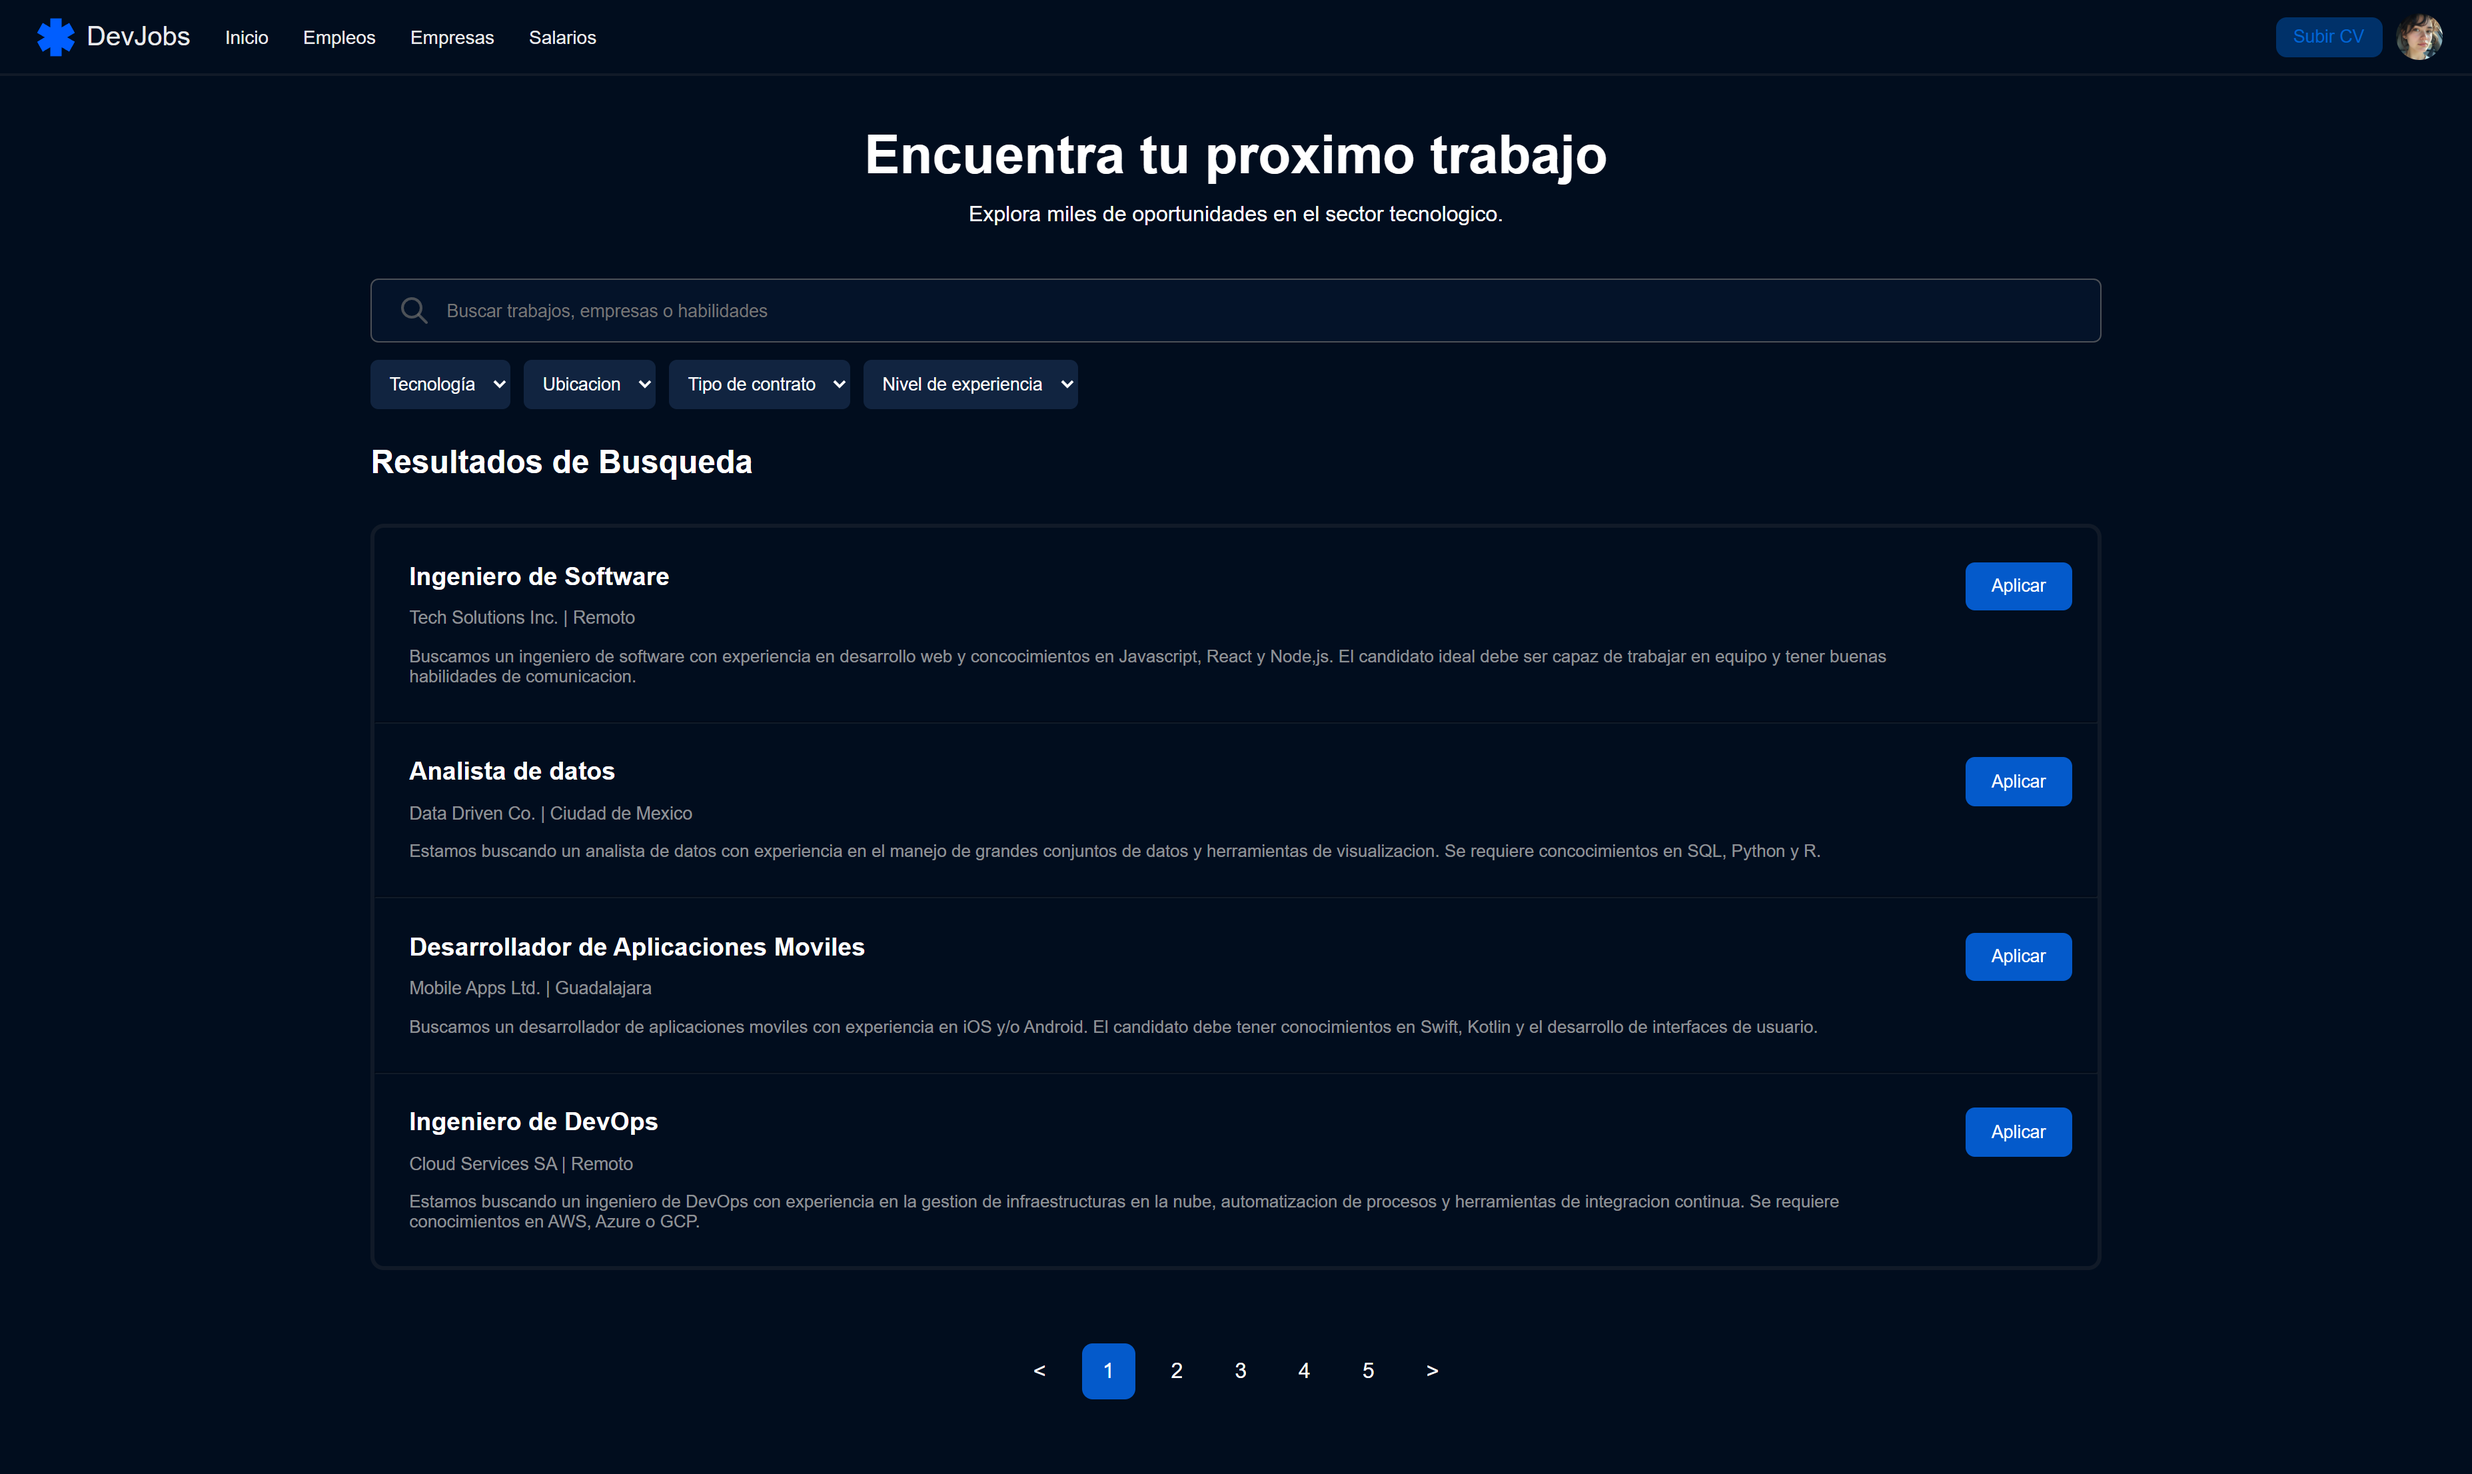
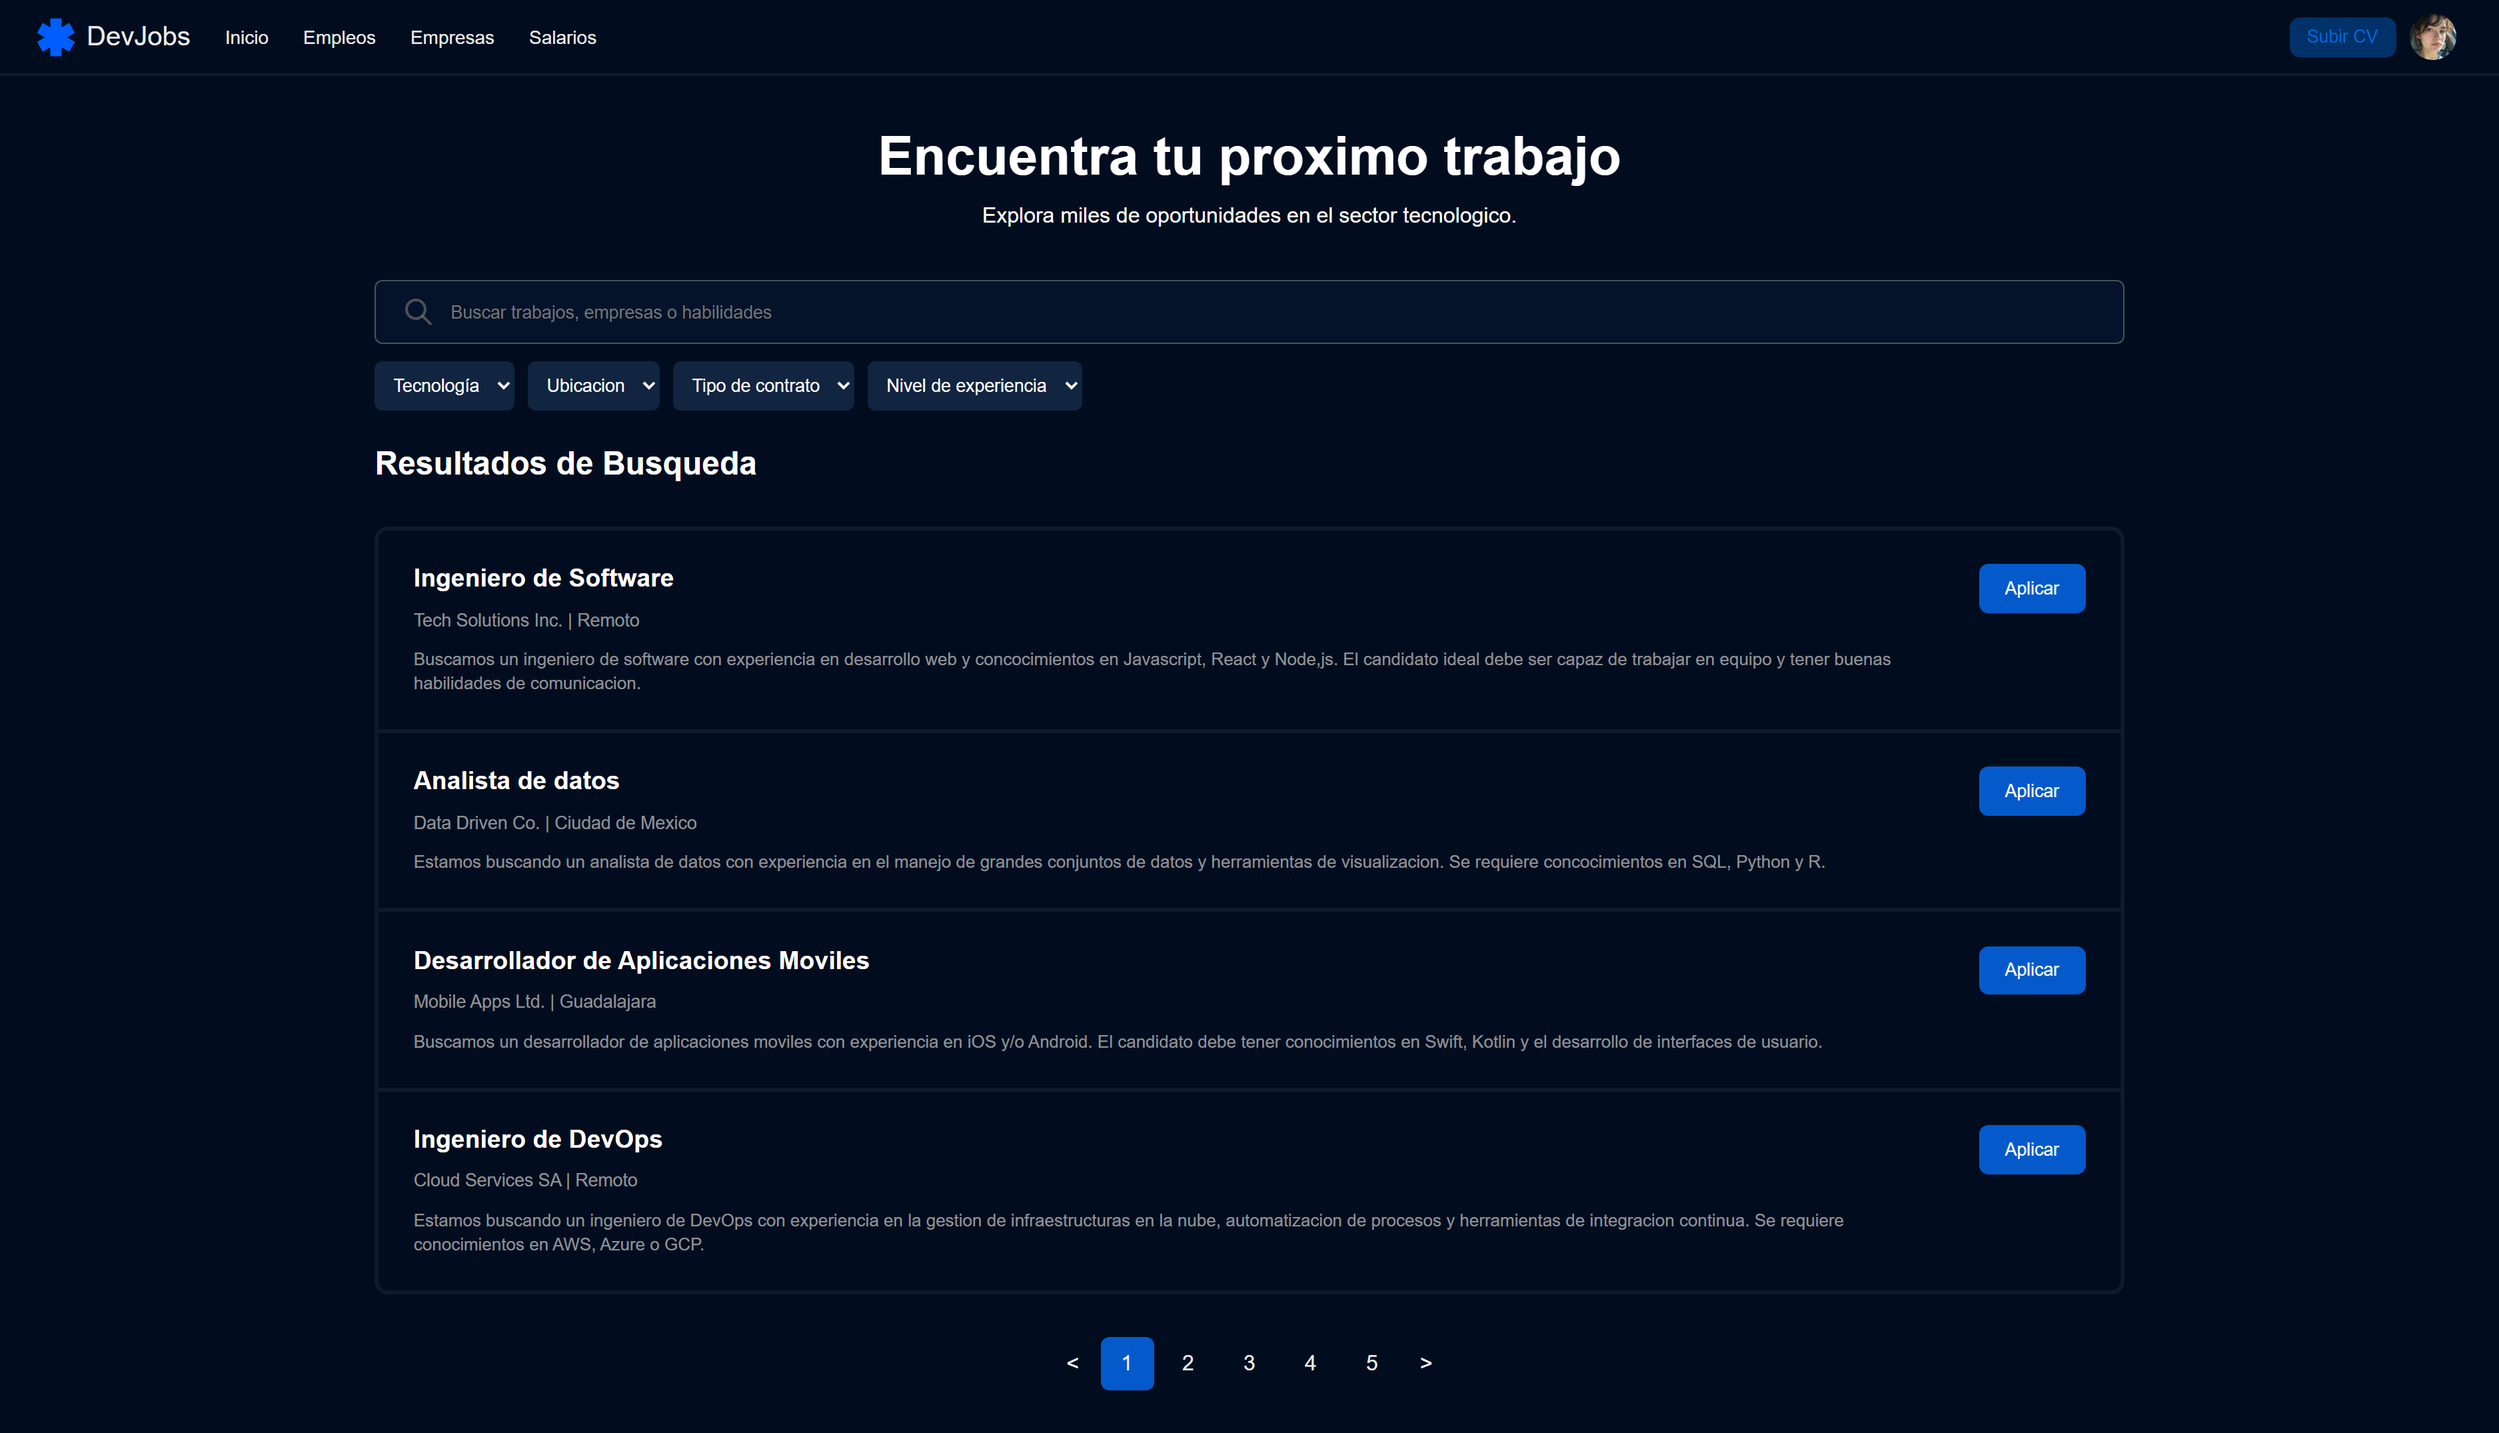
Resultados Busqueda
mejoras a la web

diff --git a/Clase1/resultados_busqueda/styles.css b/Clase1/resultados_busqueda/styles.css
@@ -135,7 +135,42 @@ section {
     border-style: solid;
 }
 
+/* 
+    section > .a → selecciona todos los divs .a que son hijos directos del <section>.
+    :nth-child(n+2) → todos los divs desde el segundo en adelante (2, 3 y 4)
+    h3 → dentro de esos divs, selecciona solo el <h3>..
+*/
+section > .ofert-jobs:nth-child(n+1) h3 {
+    padding-top: 2%; 
+}
+
+/* Agrego margen abajo de los p  */
+section > .ofert-jobs:nth-child(n+1) p {
+    font-size: small;
+    color: rgba(197, 196, 196, 0.718);
+    width: 90%;
+    margin-top: 1%;
+    padding-bottom: 2%;
+    line-height: 18px;
+}
+
+/* Agrego margen a la izquierda a todos las etiquetas dentro del div */
+section > .ofert-jobs:nth-child(n+1) {
+    padding-left: 2%;
+    padding-right: 2%;
+}
+
+.ofert-jobs {
+    border-bottom: solid rgba(79, 79, 79, 0.209);
+}
+
+/* Quitar el borde al último */
+.ofert-jobs:last-child {
+    border-bottom: none;
+}
+
 .btn-aplicar {
+    margin-top: 2%;
     color:white;
     float: right;
     height: 2.3rem;
@@ -145,44 +180,10 @@ section {
     background-color: rgb(4, 90, 203);
 }
 
-.a small {
+.ofert-jobs small {
     display: inline-block;      /* Aplico para poder hacer margin-top */
     color: rgba(197, 196, 196, 0.718);
     margin-top: 1%;
-}
-
-.a p {
-    margin-top: 1%;
-}
-
-.parraf-ofertas{
-    font-size: small;
-    color: rgba(197, 196, 196, 0.718);
-    width: 90%;
-}
-
-/* 
-    section > .a → selecciona todos los divs .a que son hijos directos del <section>.
-    :nth-child(n+2) → todos los divs desde el segundo en adelante (2, 3 y 4)
-    h3 → dentro de esos divs, selecciona solo el <h3>..
-*/
-section > .a:nth-child(n+1) h3 {
-    margin-top: 2%; /* o el valor que quieras */
-}
-
-/* Agrego margen abajo de los p  */
-section > .a:nth-child(n+4) p {
-    margin-bottom: 2%; /* o el valor que quieras */
-}
-
-/* Agrego margen a la izquierda a todos las etiquetas dentro del div */
-section > .a:nth-child(n+1)  {
-    margin-left: 2%; /* o el valor que quieras */
-}
-
-/* Agrego margen a la derecha al boton */
-section > .a:nth-child(n+1) button {
-    margin-right: 1.5%; /* o el valor que quieras */
 }
 
 a {
@@ -190,31 +191,43 @@ a {
     text-decoration: none;
 }
 
-hr {
-    border-color: rgba(79, 79, 79, 0.209);
-    height: 1px;
-    width: 100%;
-    margin-top: 2%;
-}
-
 footer {
     text-align: center;
 }
 
 .nums {
-    margin-top: 3%;
-    margin-bottom: 3%;
     display: flex;
-    gap: 15px;              /* espacio entre los números */
-    display: inline-flex;  
+    justify-content: center;
+    gap: 6px;
+    margin-block: 2rem;
 }
 
-.nums span:nth-child(n+1) {
-    padding: 12px;
+.nums a {
+    display: flex;
+    align-items: center;
+    justify-content: center;
+    width: 2.5rem;
+    height: 2.5rem;
+    border-radius: 0.4rem;
+    transition: all .3s;
+
+    &:hover, &:focus {
+      background-color: #fff;
+      width: 40px;
+    }
+
+    &:active {
+      transform: scale(0.90);
+    }
 }
 
-.nums span:nth-child(2) {
+.nums span {
+    display: flex;
+    align-items: center;
+    justify-content: center;
+    padding: 0 10px 0 10px;
+}
+
+.nums a:nth-child(2) {
     background-color: rgb(4, 90, 203);
-    border-radius: 8px;
-    width: 40px;
 }

diff --git a/Clase1/resultados_busqueda/index.html b/Clase1/resultados_busqueda/index.html
@@ -58,7 +58,7 @@
     </div>
 
     <section> 
-        <div class="a"> 
+        <div class="ofert-jobs"> 
             <button class="btn-aplicar"> Aplicar</button>
             <h3 class="title-ofertas"> Ingeniero de Software </h3>
             <small class="descrip-ofertas"> Tech Solutions Inc. | Remoto </small>
@@ -68,9 +68,7 @@
             </p>       
         </div>
 
-        <hr>
-
-        <div class="a"> 
+        <div class="ofert-jobs"> 
             <button class="btn-aplicar"> Aplicar</button>
             <h3 class="title-ofertas"> Analista de datos </h3>
             <small class="descrip-ofertas"> Data Driven Co. | Ciudad de Mexico </small>
@@ -80,9 +78,7 @@
             </p>
         </div>
 
-        <hr>
-
-        <div class="a"> 
+        <div class="ofert-jobs"> 
             <button class="btn-aplicar"> Aplicar</button>
             <h3 class="title-ofertas"> Desarrollador de Aplicaciones Moviles </h3>
             <small class="descrip-ofertas"> Mobile Apps Ltd. | Guadalajara </small>
@@ -92,9 +88,7 @@
             </p>
         </div>
 
-        <hr>
-
-        <div class="a"> 
+        <div class="ofert-jobs"> 
             <button class="btn-aplicar"> Aplicar</button>
             <h3 class="title-ofertas"> Ingeniero de DevOps </h3>
             <small class="descrip-ofertas"> Cloud Services SA | Remoto </small>
@@ -108,11 +102,11 @@
     <footer>
         <div class="nums">
             <span> &lt; </span>
-            <span>1</span>
-            <span>2</span>
-            <span>3</span>
-            <span>4</span>
-            <span>5</span>
+            <a href="">1</a>
+            <a href="">2</a>
+            <a href="">3</a>
+            <a href="">4</a>
+            <a href="">5</a>
             <span> &gt; </span>
         </div>
     </footer>
